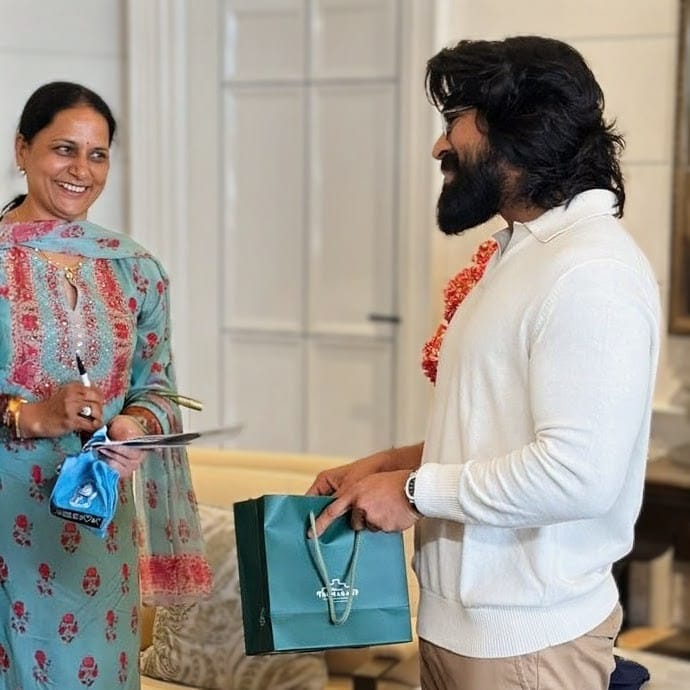
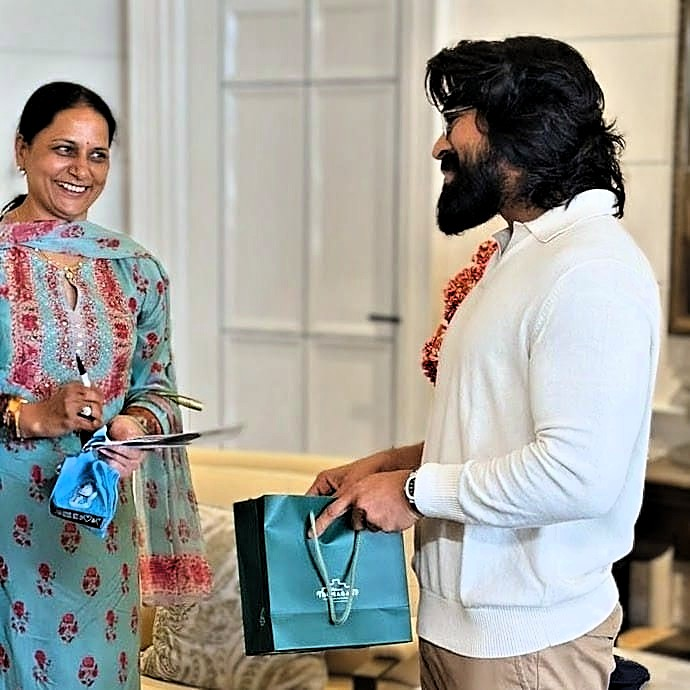
design: fixed, larger hero frame and colour-corrected hero photos
The slideshow now sits in one fixed frame (1.75:1 desktop, 1.6:1 phone)
that grows on wide screens; photos cover it anchored to the top, so heads
are kept and only the bottom is trimmed. The nine hero photos are
brightened and cleaned (white balance, shadow lift, clarity, vibrance with
skin protection, chroma denoise, light sharpening). Removes the per-photo
size reader, which the fixed frame no longer needs.

diff --git a/src/components/home/HomeHero.module.css b/src/components/home/HomeHero.module.css
@@ -7,7 +7,7 @@
 }
 
 .inner {
-  max-width: 90rem;
+  max-width: 120rem;
   margin-inline: auto;
   padding-top: var(--space-4);
   padding-left: max(var(--gutter), env(safe-area-inset-left, 0px));
@@ -101,57 +101,53 @@
 }
 
 /* ── Arch photo ──
-   The stage has a fixed size, so changing slides never moves the page.
-   Inside it each photo is drawn at its own shape (--ratio, from the file),
-   fitted to the stage and resting on its floor. The gold arch is drawn
-   around and above the photo, never over it: nothing is cropped. */
+   One frame with a fixed shape; the slides crossfade inside it. Each photo
+   covers the frame anchored to its top edge, so heads are never trimmed and
+   only the bottom of a taller photo is cut. A thin gold arch rises above the
+   frame, and the line art sits around it without covering the photo. */
 .visual {
   grid-area: visual;
-  position: relative;
+  container-type: inline-size;
+  --dome: 9cqw;           /* height of the arch above the photo */
+  padding-top: calc(var(--dome) + var(--space-2));
 }
-
-.stage {
-  --dome: 16cqh;          /* room above the photo for the arch */
-  --arch-gap: var(--space-1);
-  position: relative;
-  aspect-ratio: 1.35 / 1;
-  container-type: size;
-}
-
-.slide {
-  position: absolute;
-  inset: 0;
-  display: flex;
-  align-items: flex-end;
-  justify-content: center;
-  opacity: 0;
-  transition: opacity calc(var(--dur-reveal) * 1.6) var(--ease-out);
-}
-.slide[data-active="true"] { opacity: 1; z-index: 1; }
 
 .frame {
   position: relative;
   isolation: isolate;
-  aspect-ratio: var(--ratio);
-  /* 6% of the stage is kept free on each side for the line art. */
-  width: min(88cqw, (100cqh - var(--dome)) * var(--ratio));
+  width: 92%;
+  margin-inline: auto;
+  aspect-ratio: 1.6 / 1;
 }
 
-/* The arch: a thin gold line rising from beside the photo into a dome above it. */
 .frame::before {
   content: "";
   position: absolute;
   z-index: -1;
   top: calc(-1 * var(--dome));
   bottom: 0;
-  left: calc(-1 * var(--arch-gap));
-  right: calc(-1 * var(--arch-gap));
+  left: calc(-1 * var(--space-1));
+  right: calc(-1 * var(--space-1));
   border: 1px solid var(--color-gold);
   border-bottom: 0;
   border-radius: 50% 50% 0 0 / calc(var(--dome) * 1.6) calc(var(--dome) * 1.6) 0 0;
+  pointer-events: none;
 }
 
-.image { z-index: 1; object-fit: cover; }
+.slide {
+  position: absolute;
+  inset: 0;
+  overflow: hidden;
+  background: var(--color-paper-deep);
+  opacity: 0;
+  transition: opacity calc(var(--dur-reveal) * 1.6) var(--ease-out);
+}
+.slide[data-active="true"] { opacity: 1; z-index: 1; }
+
+.image {
+  object-fit: cover;
+  object-position: 50% 0%;
+}
 
 /* ── Slide counter, progress line and pause ── */
 .controls {
@@ -216,21 +212,21 @@
   .inner {
     padding-top: var(--space-2);
     padding-left: max(calc(var(--gutter) + 4vw), env(safe-area-inset-left, 0px));
-    grid-template-columns: minmax(0, 1fr) minmax(0, 1.55fr);
-    grid-template-rows: 1fr auto;
-    grid-template-areas: "copy visual" "controls visual";
+    grid-template-columns: minmax(0, 1fr) minmax(0, 1.9fr);
+    /* Spacer rows centre the copy and the slide controls against the photo. */
+    grid-template-rows: 1fr auto auto 1fr;
+    grid-template-areas: ". visual" "copy visual" "controls visual" ". visual";
     column-gap: var(--space-6);
     row-gap: 0;
   }
-  .copy {
-    align-self: center;
-    padding-top: var(--space-3);
-  }
+  .copy { padding-top: var(--space-3); }
   .title { font-size: calc(var(--text-display) * 0.86); }
   .visual {
-    margin: var(--space-2) 0 0;
     align-self: end;
   }
-  .stage { aspect-ratio: 1.5 / 1; }
-  .controls { padding-bottom: var(--space-3); }
+  .frame {
+    width: 88%;
+    aspect-ratio: 1.75 / 1;
+  }
+  .controls { padding-block: var(--space-4) 0; }
 }

diff --git a/src/components/home/HomeHero.tsx b/src/components/home/HomeHero.tsx
@@ -1,6 +1,6 @@
 'use client';
 
-import { useEffect, useState, type CSSProperties } from 'react';
+import { useEffect, useState } from 'react';
 import Image from 'next/image';
 import { useTranslations } from 'next-intl';
 import { ArrowRight } from 'lucide-react';
@@ -11,24 +11,18 @@ import styles from './HomeHero.module.css';
 
 const INTERVAL_MS = 6000;
 
-interface HeroSlide {
-    src: string;
-    /** width / height of the photo file */
-    ratio: number;
-}
-
 interface HomeHeroProps {
-    slides: HeroSlide[];
+    images: string[];
 }
 
-export default function HomeHero({ slides }: HomeHeroProps) {
+export default function HomeHero({ images }: HomeHeroProps) {
     const t = useTranslations('Home');
     const tDest = useTranslations('DestinationChoice');
     const reduceMotion = useReducedMotion();
 
     const [index, setIndex] = useState(0);
     const [paused, setPaused] = useState(false);
-    const count = slides.length;
+    const count = images.length;
     const playing = count > 1 && !paused && !reduceMotion;
 
     useEffect(() => {
@@ -64,25 +58,23 @@ export default function HomeHero({ slides }: HomeHeroProps) {
                     </div>
                 </div>
 
-                {/* Each photo keeps its own shape inside a gold arch drawn around it,
-                    so the whole picture is always visible. The line art moves with it. */}
+                {/* One fixed frame; only the photo inside changes. Photos fill it from
+                    the top, so faces are never cut and any trimming comes off the bottom. */}
                 <div className={styles.visual}>
-                    <div className={styles.stage}>
+                    <div className={styles.frame}>
                         {mounted.map((i) => (
-                            <div key={slides[i].src} className={styles.slide} data-active={i === index}>
-                                <div className={styles.frame} style={{ '--ratio': slides[i].ratio } as CSSProperties}>
-                                    <Image
-                                        src={slides[i].src}
-                                        alt={i === index ? t('heroAlt') : ''}
-                                        fill
-                                        sizes="(min-width: 1024px) 52vw, 100vw"
-                                        preload={i === 0}
-                                        className={styles.image}
-                                    />
-                                    <Botanicals />
-                                </div>
+                            <div key={images[i]} className={styles.slide} data-active={i === index}>
+                                <Image
+                                    src={images[i]}
+                                    alt={i === index ? t('heroAlt') : ''}
+                                    fill
+                                    sizes="(min-width: 1024px) 60vw, 94vw"
+                                    preload={i === 0}
+                                    className={styles.image}
+                                />
                             </div>
                         ))}
+                        <Botanicals />
                     </div>
                 </div>
 

diff --git a/src/app/[locale]/page.tsx b/src/app/[locale]/page.tsx
@@ -8,7 +8,6 @@ import TestimonialQuote from '@/components/home/TestimonialQuote';
 import Footer from '@/components/layout/FooterSection';
 import { selectJourneys } from '@/components/tours/selectJourneys';
 import { getImages } from '@/lib/server-images';
-import { readImageSize } from '@/lib/image-size';
 import { getAllTours } from '@/lib/tours';
 import { getTestimonials } from '@/lib/testimonials';
 import { pageAlternates } from '@/lib/site';
@@ -31,13 +30,9 @@ export default async function Home({ params }: { params: Promise<{ locale: strin
     const { locale } = await params;
     setRequestLocale(locale);
     // The group photo with the cinema banner opens the slideshow; the rest follow in folder order.
-    const heroSlides = getImages('/assets/img/home/hero').sort(
+    const heroImages = getImages('/assets/img/home/hero').sort(
         (a, b) => Number(b.includes(HERO_FIRST)) - Number(a.includes(HERO_FIRST)),
-    ).map((src) => {
-        // Each photo is shown at its true shape, so nobody is cropped.
-        const size = readImageSize(src);
-        return { src, ratio: size ? size.width / size.height : 3 / 2 };
-    });
+    );
 
     const [allTours, testimonials] = await Promise.all([
         getAllTours(locale),
@@ -47,7 +42,7 @@ export default async function Home({ params }: { params: Promise<{ locale: strin
     return (
         <>
             <main>
-                <HomeHero slides={heroSlides} />
+                <HomeHero images={heroImages} />
                 <FounderStory />
                 <Destinations />
                 <Journeys tours={selectJourneys(allTours, JOURNEY_LIMIT)} />

diff --git a/src/components/home/Botanicals.module.css b/src/components/home/Botanicals.module.css
@@ -1,7 +1,7 @@
-/* Placed inside each hero photo frame (HomeHero .frame), which is position: relative. */
+/* Placed inside the hero photo frame (HomeHero .frame), which is position: relative. */
 .art {
   position: absolute;
-  z-index: 2;
+  z-index: 3;
   max-width: 9.5rem;
   height: auto;
   overflow: visible;
@@ -27,8 +27,8 @@
 .stem { stroke-width: 1.1; }
 .dot { fill: var(--color-gold); }
 
-/* Positions are relative to the photo frame. Every piece sits outside the
-   photo (beside it, or above it on the arch), so no part of a photo is covered. */
+/* Positions are relative to the fixed photo frame. Every piece sits outside
+   the photo (beside it, or above it on the arch), so no part of a photo is covered. */
 .topLeft {
   left: -5%;
   bottom: 100%;

diff --git a/src/components/home/FounderStory.module.css b/src/components/home/FounderStory.module.css
@@ -6,7 +6,7 @@
 }
 
 .inner {
-  max-width: 90rem;
+  max-width: 120rem;  /* matches the hero */
   margin-inline: auto;
   padding-block: var(--section-pad);
   padding-left: max(var(--gutter), env(safe-area-inset-left, 0px));

diff --git a/docs/CHANGELOG.md b/docs/CHANGELOG.md
@@ -3,7 +3,8 @@
 ## [2026-11-05] Homepage hero and trust band from the owner's mockup (branch `redesign/premium-reskin`)
 ### Changed
 - Homepage hero: copy on paper beside an arch-shaped photo slideshow framed by gold botanical line art (`HomeHero`, `Botanicals`). The cinema-banner group photo opens the slideshow
-- Hero photos are never cropped: each photo is shown at its own shape (read from the file header by `src/lib/image-size.ts`), with the gold arch drawn around and above it and the line art kept outside the photo
+- Hero slideshow sits in one fixed, larger frame (1.75 : 1 on desktop, 1.6 : 1 on phones; the hero grows to 1920px on wide screens). Photos fill it anchored to their top edge, so heads are never trimmed and only the bottom of taller photos is cut. The gold arch rises above the frame and the line art sits outside the photo
+- The 9 hero photos were colour-corrected: partial white balance, adaptive brightening of dark shots, mild clarity and vibrance with skin-tone protection, chroma denoise and light sharpening (originals are in git history)
 - Founder section rebuilt from the owner's second mockup (`FounderStory`): gold-framed portrait, a line-drawn bridge, three story cards that lift and highlight on hover, the founder's quote, role pills and a "Read Our Full Story" link to About. Its text is now translated in `ja.json`
 - Navigation: solid paper bar on every page (no longer transparent over the homepage), gold logo, `EN | 日本語` divider, ENQUIRE button with soft corners and a shadow
 - New tokens: `--color-gold`, `--color-gold-deep`, `--radius-soft`, `--radius-card`, `--radius-photo`, `--radius-pill`, `--shadow-button`, `--shadow-card`, `--shadow-card-hover`

diff --git a/docs/design-system.md b/docs/design-system.md
@@ -133,7 +133,7 @@ The migration finished on 2026-11-05. Every page uses these tokens and CSS Modul
 The owner supplied mockups for the homepage hero and the founder section below it. It deliberately departs from some rules above; these departures apply **only** where listed.
 
 - **Gold on paper.** `--color-gold` (#B8924F) is for line art, frames, icons, pill and button borders only, never text (2.6 : 1). Gold text on paper uses `--color-gold-deep` (#87652A, 4.7 : 1): the hero eyebrow and the logo wordmark. Turmeric (`--color-highlight`) is still ink-only.
-- **Hero photos are never cropped.** Each slide is drawn at the photo's own shape; a thin gold arch rises around and above it, and the botanical line art sits outside the photo.
+- **Hero frame.** One fixed frame (1.75 : 1 desktop, 1.6 : 1 phone); photos cover it anchored to the top (`object-position: 50% 0`), so faces stay and only the bottom is trimmed. A thin gold arch rises above it; the botanical line art sits outside the photo. New hero photos should keep people in the upper part of the picture.
 - **Rounded shapes.** The founder portrait (`--radius-photo`) in a gold frame with heavier corner accents, the story cards (`--radius-card`, `--shadow-card`, lifting to `--shadow-card-hover` on hover) and the role pills and founder link (`--radius-pill`). Everything else stays square.
 - **Soft buttons.** The hero buttons and the nav ENQUIRE button use `--radius-soft` (3px); filled vermilion buttons there carry `--shadow-button`.
 - **Eyebrows.** The hero ("East & West Bound Journeys") and the founder section ("Our Founder's Story", underlined in vermilion) each have one. No other heading gets one.
